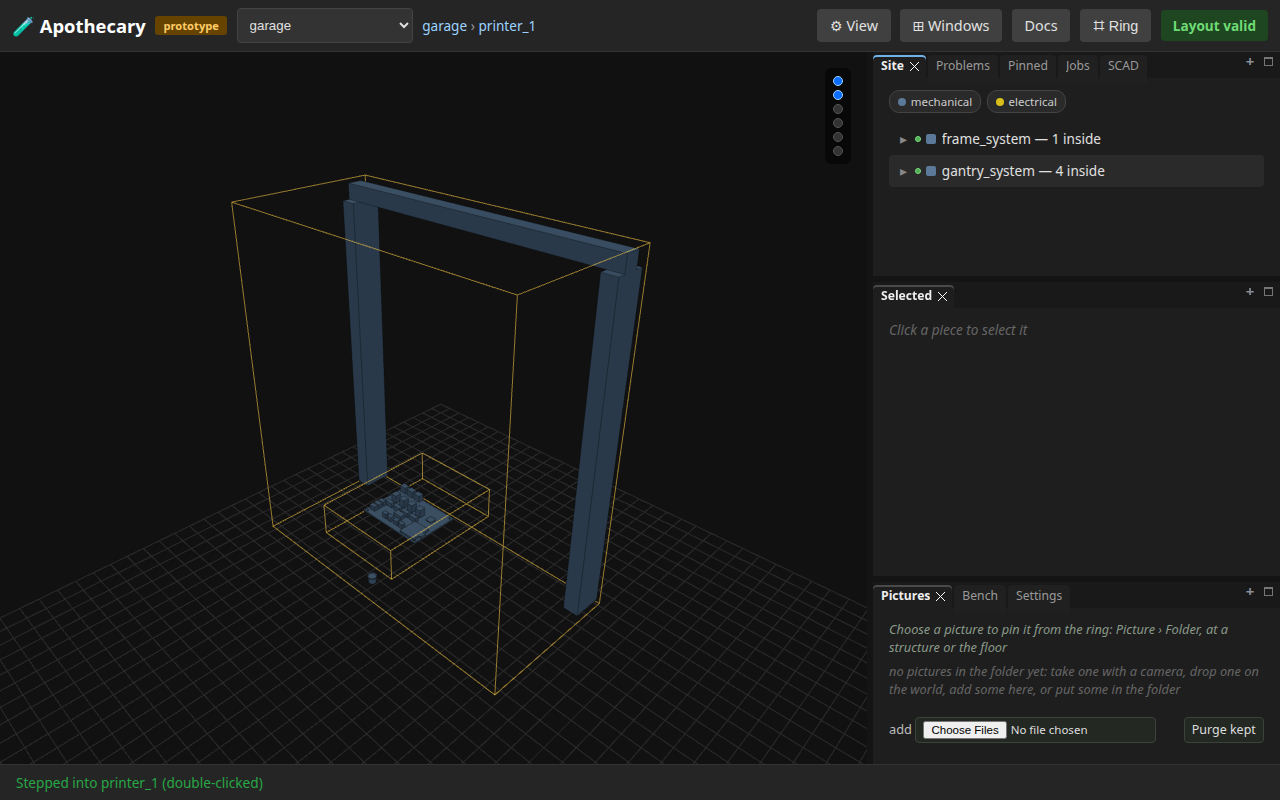
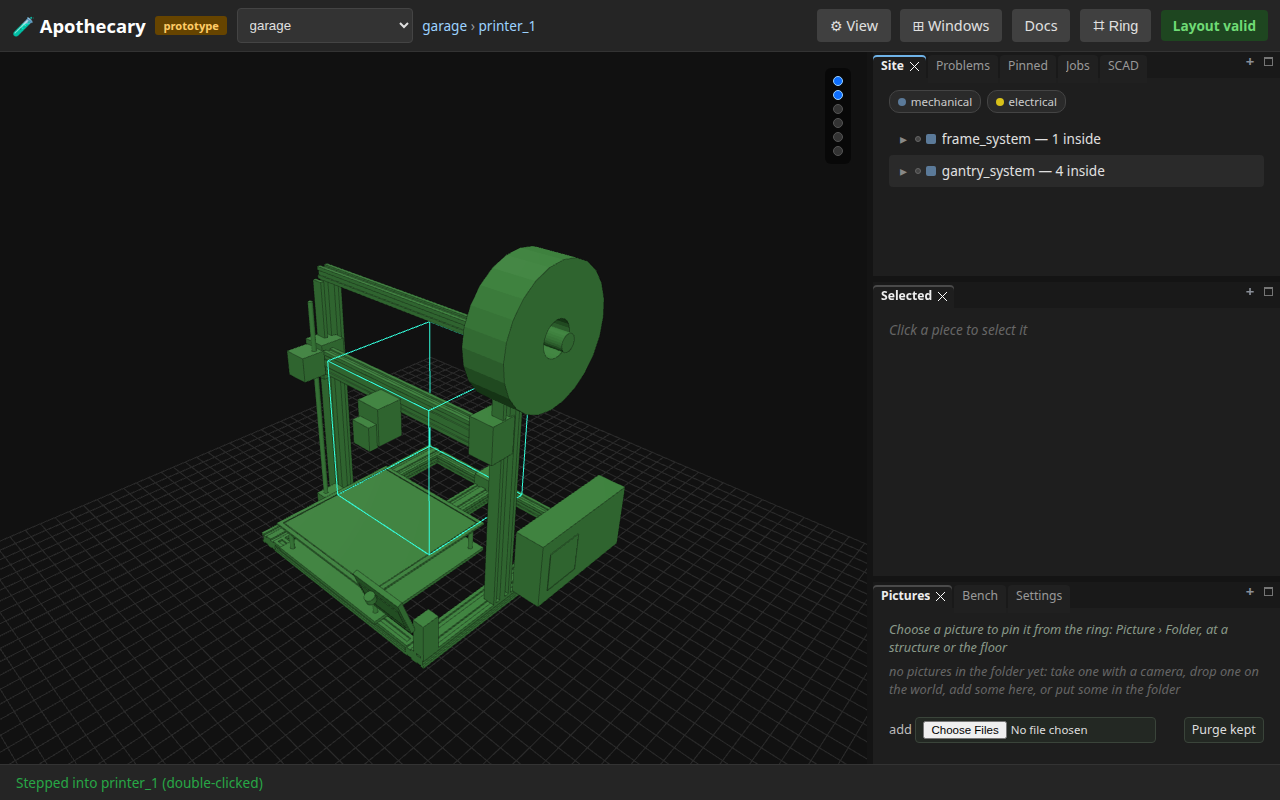
A machine stepped into is drawn as its part, alone and whole
Stepped into, a piece drew what it holds and never itself, unless it held
nothing. A machine is drawn as the part it names and holds little of what
that part draws: stepped into cnc_router the level was the control box
alone, and the AnoleX left the screen; printer_1 read as a machine there
only because its uprights and top bar are modelled a second time as pieces.

A machine's level is now its part. currentRenderNodes already drew a focused
leaf as itself, which is how a part in the library is reached; a piece with a
part_ref is drawn the same way whatever it holds (drawsItself), so one rule
draws a part alone in the library and in a site, here with its working volume
and its board's badge. What the machine holds is Site's rows at that level,
each stepped into from its row, where the piece's contents are drawn as
before. No piece is modelled and no dimension added.

At its own level the machine is the selection a click on the part makes: its
part, its Device line, and the pieces inside it by name, in place of a Step
into for the level it already is and a Detail that could stand a box in for
it. It is drawn in full whatever View's Detail says, has no outline, and a
double-click or Page Down on it says it is already the level and where its
pieces are. ?focus=<machine> arrives with it selected.

The move arrows followed any selection onto its loaded mesh, at any depth,
where a drag moves the drawing and nothing else (onGizmoDrag returns below
[…]

diff --git a/tests/e2e/test_viewer.py b/tests/e2e/test_viewer.py
@@ -202,6 +202,117 @@ def test_focusing_a_leaf_renders_that_leaf(page: Page, base_url: str):
     expect(page.locator("#contents-list")).to_contain_text("datum_core")
 
 
+# What a level draws, from the scene itself once its geometry is in: each piece with a
+# mesh (how many vertices, and whether it is still its placeholder box), the outlines,
+# what wears the move arrows, and Site's rows.
+LEVEL = """async () => {
+    const v = window.fractalViewer;
+    await v.waveDone;
+    const arrows = v.transformControls.object;
+    return {
+        focus: v.focusPath.join('.'),
+        selected: v.selectedName,
+        drawn: Object.fromEntries(Object.entries(v.meshByName).map(([key, mesh]) => [key, {
+            vertices: mesh.geometry.attributes.position.count,
+            placeholder: !!mesh.userData.isPlaceholder,
+        }])),
+        outlines: Object.keys(v.compoundOverlayByKey),
+        volumes: Object.keys(v.buildVolumeMeshByName),
+        arrows: arrows ? arrows.userData.key : null,
+        rows: [...document.querySelectorAll('#contents-list .contents-item')].map((li) => li.dataset.path),
+    };
+}"""
+
+# Where on the page a click in the world lands on `key`: the first point of a coarse
+# grid over the canvas that the viewer's own pick answers with it, nothing in front.
+ON_PIECE = """(key) => {
+    const v = window.fractalViewer, r = v.canvas.getBoundingClientRect();
+    for (let i = 1; i < 16; i++) for (let j = 1; j < 16; j++) {
+        const at = { clientX: r.left + (r.width * i) / 16, clientY: r.top + (r.height * j) / 16 };
+        if (document.elementFromPoint(at.clientX, at.clientY) !== v.canvas) continue;
+        if (v.raycastChild(at) === key) return { x: at.clientX, y: at.clientY };
+    }
+    return null;
+}"""
+
+MACHINES = [
+    ("cnc_router", "anolex_4060_evo_ultra_2", ["frame_system"]),
+    ("printer_1", "ender3", ["frame_system", "gantry_system"]),
+]
+
+
+@pytest.mark.e2e
+@pytest.mark.parametrize("machine, part, pieces", MACHINES)
+def test_stepping_into_a_machine_draws_its_part_alone_and_whole(
+    page: Page, base_url: str, machine: str, part: str, pieces: list
+):
+    """A machine in a site is drawn as the part it names. Stepped into, that part is the
+    level: alone, with nothing else of the site and none of its pieces beside it, and
+    whole, the mesh the level above drew. Its pieces are Site's rows, each a step
+    further in, where what the piece holds is drawn and the machine is not."""
+    _open(page, f"{base_url}/viewer/sites/garage")
+    body = page.evaluate(LEVEL)["drawn"][machine]
+    assert not body["placeholder"], f"{machine} is drawn from {part}'s STL in the garage"
+
+    page.locator(f"#contents-list .contents-item[data-path='{machine}']").click()
+    page.locator("#selected-body .zoom-in-btn").click()
+    expect(page.locator("#status")).to_contain_text(f"Stepped into {machine}")
+    inside = page.evaluate(LEVEL)
+    assert inside["focus"] == machine
+    assert inside["drawn"] == {machine: body}, "the part alone, and the whole of it"
+    assert inside["outlines"] == [], "the level's own piece is set apart from nothing"
+    assert inside["volumes"] == [machine], "its working volume is drawn in it"
+    assert inside["rows"] == [f"{machine}.{piece}" for piece in pieces]
+
+    # The part is the piece in Selected once it is clicked, by the name of its part,
+    # with no way offered into the level it already is and no arrows to move it by.
+    on_it = page.evaluate(ON_PIECE, machine)
+    assert on_it, f"{machine} is under the pointer somewhere in the view"
+    page.mouse.click(on_it["x"], on_it["y"])
+    assert page.evaluate(LEVEL)["selected"] == machine, "a click on the part selects it"
+    selected = page.locator("#selected-body")
+    expect(selected.locator("span[title='The part this machine is drawn as']")).to_have_text(part)
+    expect(selected.locator("[data-facts='inside']")).to_contain_text(", ".join(pieces))
+    expect(selected.locator(".zoom-in-btn")).to_have_count(0)
+    expect(selected.locator(".detail-select")).to_have_count(0)
+    assert page.evaluate(LEVEL)["arrows"] is None
+
+    # Stepping into it again goes nowhere, and says where its pieces are.
+    page.mouse.dblclick(on_it["x"], on_it["y"])
+    expect(page.locator("#status")).to_contain_text(f"Already inside {machine}")
+    assert page.evaluate(LEVEL)["focus"] == machine
+
+    # A piece, from its row: what it holds is the level, and the machine is not drawn.
+    piece = f"{machine}.{pieces[0]}"
+    page.locator(f"#contents-list .contents-item[data-path='{piece}']").dblclick()
+    expect(page.locator("#status")).to_contain_text(f"Stepped into {piece}")
+    deeper = page.evaluate(LEVEL)
+    assert deeper["focus"] == piece
+    assert deeper["drawn"] and all(key.startswith(f"{piece}.") for key in deeper["drawn"]), deeper
+
+
+@pytest.mark.e2e
+def test_a_link_into_a_machine_lands_on_its_part_selected(page: Page, base_url: str):
+    """`?focus=` on a machine arrives at its part, drawn whole and selected, so its rows
+    are in Selected without another click; it wears no move arrows, which belong to a
+    piece at the site's own level; and View's Detail, which stands a box or a dot in for
+    a piece with pieces inside, leaves the piece the level is for drawn in full."""
+    _open(page, f"{base_url}/viewer/sites/garage?focus=cnc_router")
+    arrived = page.evaluate(LEVEL)
+    assert arrived["selected"] == "cnc_router"
+    assert list(arrived["drawn"]) == ["cnc_router"]
+    assert not arrived["drawn"]["cnc_router"]["placeholder"]
+    assert arrived["arrows"] is None
+    part_row = page.locator("#selected-body span[title='The part this machine is drawn as']")
+    expect(part_row).to_have_text("anolex_4060_evo_ultra_2")
+
+    page.locator("#view-menu > summary").click()
+    page.locator("#detail-mode").select_option("dot")
+    dotted = page.evaluate(LEVEL)
+    assert dotted["drawn"] == arrived["drawn"], "the level's own piece is never a dot"
+    assert _viewer_state(page)["dots"] == 0
+
+
 @pytest.mark.e2e
 def test_code_panel_populates_without_an_edit(page: Page, base_url: str):
     """Loading a site fills the generated OpenSCAD panel; no layout edit needed."""

diff --git a/tests/e2e/test_docs_bench_walkthrough.py b/tests/e2e/test_docs_bench_walkthrough.py
@@ -245,8 +245,8 @@ def test_the_bench_as_it_is(bench, walkthrough, tmp_path):
     settled(page)
     story.shows(
         "Inside it, the mainboard is the Creality V4.2.2",
-        "Stepped into the printer, then its frame, by a double-click on their rows in Site: its "
-        "children are drawn and the printer's body is not -- the board in its box, with "
+        "Stepped into the printer, then its frame, by a double-click on their rows in Site: "
+        "what the frame holds is drawn and the printer is not -- the board in its box, with "
         "the pins that would be pinned to a port. Its outline, holes, headers and jacks "
         "are from the maker's drawing.",
     )
@@ -343,8 +343,9 @@ def test_the_bench_as_it_is(bench, walkthrough, tmp_path):
     story.shows(
         "Looking into a printer, the camera stays in the garage",
         "A camera is a piece of the site, drawn at the level its site is. Stepped into "
-        "the printer, neither its badge nor its pyramid follows; stepping back out "
-        "brings them back.",
+        "the printer, the printer is its part, alone and whole, with its frame and its "
+        "gantry as Site's rows; neither the camera's badge nor its pyramid follows, and "
+        "stepping back out brings them back.",
     )
 
     # Back to the root with nothing selected: zooming out one level would select the

diff --git a/tests/e2e/test_viewer_regressions.py b/tests/e2e/test_viewer_regressions.py
@@ -56,17 +56,18 @@ def _open(page: Page, url: str) -> None:
 @pytest.mark.e2e
 def test_double_clicking_a_piece_below_the_root_zooms_into_it(page: Page, base_url: str):
     _open(page, f"{base_url}/viewer/sites/garage")
-    page.locator("#contents-list .contents-item", has_text="printer_1").dblclick()
-    page.wait_for_function("() => window.fractalViewer.focusPath.join('.') === 'printer_1'")
+    # The workbench: a machine stepped into is drawn as its part, alone.
+    page.locator("#contents-list .contents-item", has_text="workbench").dblclick()
+    page.wait_for_function("() => window.fractalViewer.focusPath.join('.') === 'workbench'")
     page.evaluate("() => window.fractalViewer.waveDone")
 
     point = page.evaluate(POINT_ON_A_PIECE_WITH_PIECES)
-    assert point, "no piece of printer_1 with pieces inside it is on the canvas"
+    assert point, "no piece of the workbench with pieces inside it is on the canvas"
     page.mouse.dblclick(point["x"], point["y"])
 
     page.wait_for_function(
         "(path) => window.fractalViewer.focusPath.join('.') === path",
-        arg=f"printer_1.{point['name']}",
+        arg=f"workbench.{point['name']}",
         timeout=5000,
     )
     expect(page.locator("#breadcrumb")).to_contain_text(point["name"])

diff --git a/docs/viewer.md b/docs/viewer.md
@@ -89,9 +89,20 @@ before the view so it never turns it.
 ring's -- else the selection, else what the middle of the view shows, walls
 passed through as a click passes them; as deep as it is drawn. The status line
 says which, and why. Stepping out lands on the piece left, selected. Inside a
-piece the world draws what it holds, not the piece: stepped into a printer, its
-board and its posts are drawn, and its body is the picture at the level above.
-A piece that holds nothing is drawn itself.
+piece the world draws what it holds, not the piece: stepped into the workbench,
+its frame is drawn. A piece that holds nothing is drawn itself.
+
+**A machine is its part.** A piece drawn as a part it names, with pieces of
+its own inside it -- the router, a printer -- is drawn itself too: stepped
+into, its part stands alone and whole, with its working volume and its board's
+badge and nothing else of the site. What it holds is Site's rows there, each
+stepped into from its row (a double-click, or Selected's "⤵ Step into"), where
+the piece's own contents are drawn and the machine is not. A click on the part
+selects the machine: its part, its Device line with the pin and what the board
+last said, and the pieces inside it by name. There it has no Detail and no
+"⤵ Step into", wears no move arrows, which are a piece's at the site's own
+level, and a double-click on it says it is already the level in view.
+`?focus=<machine>` arrives there with it selected.
 
 **Automatic zoom** is the wheel's step: once the camera is as near the level's
 pieces as it may come, or as far out, more scrolling the same way adds up, and
@@ -145,8 +156,8 @@ ring's View is, which adds **Fit**: frame the pieces at this level (Shift+F;
 | ⚙ View, and the ring's View | Does |
 |---|---|
 | Snap to grid | Snaps a dragged piece to a 50 mm grid (on at first) |
-| Detail: Full, Black box, Dot | How much of each compound piece to draw: its real geometry, its bounding box, or a marker. Leaves are always drawn in full; Selected's Detail overrides it for one piece |
-| Outlines | Outlines each compound piece's whole extent, so a subassembly reads as one thing (on at first) |
+| Detail: Full, Black box, Dot | How much of each compound piece to draw: its real geometry, its bounding box, or a marker. Leaves are always drawn in full, and so is a machine stepped into; Selected's Detail overrides it for one piece |
+| Outlines | Outlines each compound piece's whole extent, so a subassembly reads as one thing (on at first); a machine stepped into, the whole level, has none |
 | Select walls | A click in the world picks a wall again, until the page is left (off at first) |
 | Settings | Opens the Settings panel, its tab in front ([below](#settings)) |
 

diff --git a/CHANGELOG.md b/CHANGELOG.md
@@ -9,6 +9,7 @@ change since 0.1.0: what is there now that was not, and what 0.1.0 had that is g
 
 ### Added
 
+- A machine stepped into is its part, alone and whole: the router or a printer drawn as the part it names with its working volume, its pieces Site's rows there, each a step further in. ([doc](docs/viewer.md#the-world))
 - A toolpath preview, one core for a print and a cut: `apothecary/preview` reads any G-code file into what the page draws, instantiated for a printer (layers, extruding and travel) and for a router (passes, cuts, plunges and rapids); the Print and Cut card's slider draws the chosen file's path in the world, a router's at its work zero; the slicer's bounds now read through it (`docs/toolpath-preview.md`, walkthrough 21).
 - One page for two machines: the kinds' words in one module (`apothecary/static/machine_words.js`), one badge grammar for every board, a Machine section titled by the board's kind (a router's Cut), the Print and Cut card in the loop's order, a shorter Selected, the Machine's head in clusters, the Working space open on any machine with a board pinned and its hour in that machine's words and readings, and the page's palette in one sheet (`docs/plans/ui-refresh-2026-11-04.md`).
 - A part through the subtractive loop: a part's wrapper may declare the cuts that make it from its stock (`parts/router_coupon`, on the router's table in the garage), `apothecary/cam` writes the router's toolpath from them in GRBL's dialect -- pockets, holes bored to the tool and said when smaller, the outline -- keeps and records it, the Cut card's Toolpath and the part's ring's offer it, a cut names the operation it is in, and the simulated router's trace is measured as cut against the design (`docs/cam.md`, walkthrough 20, `docs/plans/subtractive-loop-2026-11-04.md`).

diff --git a/walkthrough/02-the-bench-as-it-is.md b/walkthrough/02-the-bench-as-it-is.md
@@ -66,7 +66,7 @@ Selecting printer_1 shows its rows and, below them, the part its body is; the vi
 
 ## 7. Inside it, the mainboard is the Creality V4.2.2
 
-Stepped into the printer, then its frame, by a double-click on their rows in Site: its children are drawn and the printer's body is not -- the board in its box, with the pins that would be pinned to a port. Its outline, holes, headers and jacks are from the maker's drawing.
+Stepped into the printer, then its frame, by a double-click on their rows in Site: what the frame holds is drawn and the printer is not -- the board in its box, with the pins that would be pinned to a port. Its outline, holes, headers and jacks are from the maker's drawing.
 
 ![Inside it, the mainboard is the Creality V4.2.2](screenshots/02-07-inside-it-the-mainboard-is-the-creality-v4-2-2.png)
 
@@ -84,7 +84,7 @@ Added from the bench's own ring -- Camera, Add here -- a camera part stands abov
 
 ## 10. Looking into a printer, the camera stays in the garage
 
-A camera is a piece of the site, drawn at the level its site is. Stepped into the printer, neither its badge nor its pyramid follows; stepping back out brings them back.
+A camera is a piece of the site, drawn at the level its site is. Stepped into the printer, the printer is its part, alone and whole, with its frame and its gantry as Site's rows; neither the camera's badge nor its pyramid follows, and stepping back out brings them back.
 
 ![Looking into a printer, the camera stays in the garage](screenshots/02-10-looking-into-a-printer-the-camera-stays-in-the-gar.png)
 

diff --git a/docs/cnc.md b/docs/cnc.md
@@ -29,7 +29,8 @@ the workbench. Its working area is its `build_volume` and the tool's
 `build_origin`. Inside it, `cnc_router.frame_system` is the control box and
 `cnc_router.frame_system.controller` the board the port is pinned to: the
 maker publishes no drawing of that board, so it is a box and no part draws
-it. `ROUTER_STATUSES` are the words the router's node takes: `idle`,
+it. Stepped into, the router is its part, alone and whole, and the control
+box is Site's row there ([viewer.md](viewer.md#the-world)). `ROUTER_STATUSES` are the words the router's node takes: `idle`,
 `running`, `hold`, `alarm`, `offline` from its polls, and `maintenance` by
 hand.
 
